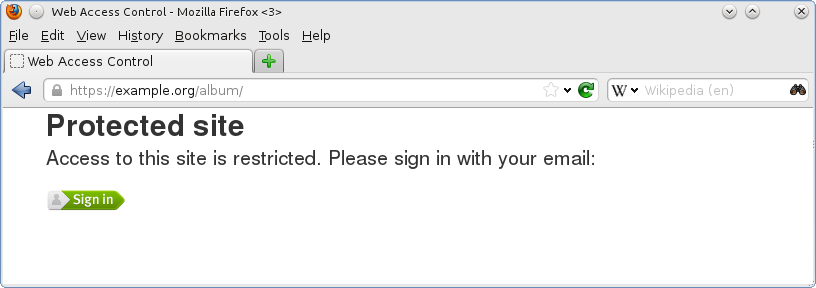
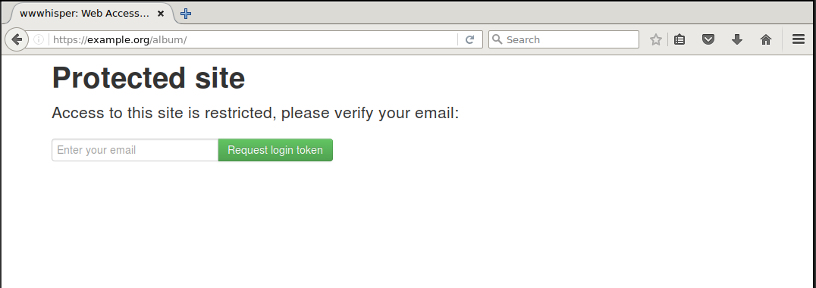
Update README.

Changed region(s): [[0.0, 0.0, 1.0, 1.0], [0.0613, 0.6562, 0.1532, 0.75]]

diff --git a/README.md b/README.md
@@ -1,135 +1,67 @@
-wwwhisper simplifies sharing of Web resources that are not intended
-for everyone. It is a generic access control layer for HTTP server
-that allows to specify which resources can be accessed by which
-visitors. At the moment wwwhisper works with nginx, there is also a
-[Heroku add-on](https://addons.heroku.com/wwwhisper) that provides
-wwwhisper as a service for any Ruby Rack based application on Heroku.
+wwwhisper is an authorization layer for HTTP servers that controls
+which resources can be accessed by which visitors. wwwhisper works
+with nginx auth-request module, it is also available as a [Heroku
+add-on](http://wwwhisper.io) that provides wwwhisper as a service for
+Ruby and Node.js applications on Heroku.
 
-* wwwhisper grants access to HTTP resources based on users' email
-  addresses, which enables sharing with almost every Internet user.
-  [Persona](http://persona.org) is used to prove that a visitor owns
-  an allowed email, no site-specific password is needed. Persona UI
-  makes the authentication process really smooth.
+* wwwhisper grants access to HTTP resources based on visitors' email
+  addresses. Password-less access tokens are used to prove that a
+  visitor owns an allowed email.
 
 * wwwhisper is application independent. It can be used for anything
   that HTTP server returns - dynamic content, static files, content
   generated by back-end servers. No support from applications or
   back-ends is needed.
 
-* wwwhisper provides an admin web application that gives a convenient
-  UI for manipulating permissions. Access to the admin is protected by
-  wwwhisper, this allows to easily authenticate, add and remove admin
-  users.
+* wwwhisper provides an admin web UI for manipulating
+  permissions. Access to the admin is protected by wwwhisper, this
+  allows to easily add and remove admin users.
 
 [![Build Status](https://travis-ci.org/wrr/wwwhisper.png?branch=master)](https://travis-ci.org/wrr/wwwhisper)
 
 Quick tour
 -----------
 
-You can preview [a wwwhisper demo
-site](https://io-mixedbit.rhcloud.com/wiki). The site is configured to
-allow everyone access. If you want to see the demo but don't want to
-create a real Persona account, sign-in with an address like:
-PutAnythingHere@mockmyid.com (Such addresses use [mock Persona
-id](https://mockmyid.com/) and should not be used for anything important).
-
-You can also check [a demo version of the admin
-UI](http://mixedbit.org/admin/).
-
-Upon visiting a wwwhisper protected site, a user is presented with a
+A user that visits a wwwhisper-protected site is presented with a
 login prompt:
 
 ![Login prompt](https://raw.github.com/wrr/wwwhisper/master/doc/screens/login_required.png)
 
-'Sign in' button opens Mozilla Persona authentication dialog. Persona
-allows the user to smoothly and securely prove that she owns a
-given email address:
+'Request login token' button sends a link with an email verification
+token to the provided email address. The link is valid for 30 minutes
+and for a single successful login.
 
-![Login prompt](https://raw.github.com/wrr/wwwhisper/master/doc/screens/persona_dialog.png)
-
-After successful authentication, wwwhisper checks that the user is
-allowed to visit the URL. If this is the case, the user is taken
-to the site:
+After the link is clicked, wwwhisper checks that the user is allowed
+to visit the URL. If this is the case, the user is taken to the site:
 
 ![Access granted](https://raw.github.com/wrr/wwwhisper/master/doc/screens/access_granted.png)
-
-Usually authentication systems are built into web applications. With
-wwwhisper this is not required. The photo album above consist of
-static HTML and JavaScript files with no dynamic code executed at the
-server side and with no awareness of wwwhisper.
 
 HTTP server inserts a small overlay in the lower-right corner of each
 protected HTML document. The overlay contains an email of the current
 user and a 'Sign out' button.
 
-If the user visits a location that she is not allowed to access, an
-error is displayed:
-![Access denied](https://raw.github.com/wrr/wwwhisper/master/doc/screens/access_denied.png)
+If the user visits a location that he or she is not allowed to access,
+an error is displayed: ![Access
+denied](https://raw.github.com/wrr/wwwhisper/master/doc/screens/access_denied.png)
 
-Finally, the admin application allows to easily grant and revoke
-access and to check who can access what. It also helps to compose
-invitation emails to allowed users:
+The admin application allows to easily grant and revoke access. There
+is no need to create, distribute and manage passwords:
 
 ![Admin](https://raw.github.com/wrr/wwwhisper/master/doc/screens/admin.png)
 
-The admin users need to only specify emails of people allowed to
-access a given location. There is no need to create, distribute and
-manage passwords. Also, unlike in case of URL encoded credentials,
-URLs of protected resources do not need to be kept private. A person
-that discovers a protected URL won't be able to access the resource
-without proving ownership of an allowed email.
-
-Technical details
------------------
-
-wwwhisper is a service that runs along HTTP server. Each time a
-request is made to a protected location of the server, the server
-sends a sub-request to wwwhisper to determine if the original request
-should be allowed. For Nginx, an [auth-request
-module](https://github.com/perusio/nginx-auth-request-module) is used
-to send the sub-request. For Rack, a [wwwhisper
-middleware](https://github.com/wrr/rack-wwwhisper) is used.
-
-The sub-request carries a path and headers of the original request.
-wwwhisper responds to the sub-request in one of three possible ways:
-
-1. If a user is not authenticated (authentication cookie not set or
-   invalid), HTTP status code 401 is returned. HTTP server intercepts
-   this code and returns a login page to the user.
-
-2. If a user is authenticated and is authorized to access the
-   requested resource (user's email is on a list of allowed users),
-   sub-request returns HTTP status code 200. HTTP server intercepts
-   this code and allows the original request.
-
-3. If a user is authenticated but is not authorized to access the
-   requested resource, sub-request returns HTTP status code 403, which
-   is returned to the user.
-
-The login page asks the user to sign-in with Persona. Sign-in process
-returns a cryptographically-secure assertion that is sent to the
-wwwhisper and that allows to determine a verified email address of the
-user. The assertion does not carry user's password and is valid only
-for the current domain, because of this, a malicious site can not use
-the assertion to authenticate with other sites. After extracting the
-email from the assertion, wwwhisper determines if any resources are
-shared with the user. If yes, a session cookie is set and the user is
-successfully logged in. If no resources are shared, a 403 error is
-returned to the user and a session cookie is not set.
 
 Setup
 -----
 
-Heroku users can use the [wwwhisper
-add-on](https://addons.heroku.com/wwwhisper) with any Rack based
-application (Rails, Sinatra). This is the fastest and easiest way to
-setup wwwhisper authorization, it requires only 3 lines of config.
+Heroku users can use the [wwwhisper add-on](http://wwwhisper.io) with
+any Rack (Rails, Sinatra) and Node.js Connect based application. This
+is the fastest and easiest way to setup wwwhisper access control, it
+requires only 3 lines of config.
 
-Another easy way is to setup a standalone wwwhisper instance on
-OpenShift cloud platform by RedHat. Follow [these
-steps](https://github.com/wrr/wwwhisper-openshift) to have wwwhisper
-protected site in few minutes, with SSL and for free. The scripts also
-automatically install some useful applications (a wiki and a blog).
+NOTE: wwwhisper standalone setup procedure is outdated. The scripts
+need to be updated to include token email delivery configuration
+(originally wwwhisper used Mozilla Persona and didn't need to send
+emails with tokens to verify email ownership).
 
 Following steps demonstrate how to install and configure nginx with
 wwwhisper authentication on Debian-derivative distributions (including
